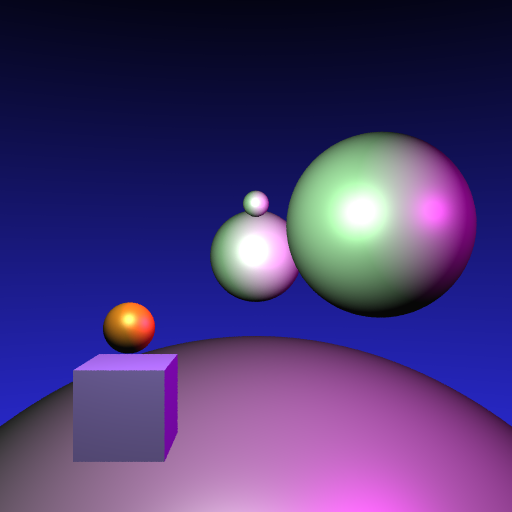
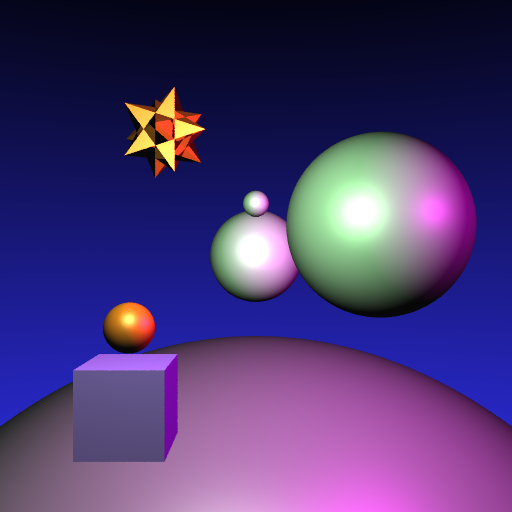
A4: mesh successfully rendered, need to do special bounding volume mode

Changed region(s): [[0.25, 0.1562, 0.4062, 0.3438]]

diff --git a/A4/Mesh.cpp b/A4/Mesh.cpp
@@ -8,11 +8,55 @@
 // #include "cs488-framework/ObjFileDecoder.hpp"
 #include "Mesh.hpp"
 
-bool Triangle::hit(const Ray &ray, float tmin, float tmax, HitRecord &record) const {
-	return false;
-}
+bool Mesh::hit(const Ray &ray, float t_min, float t_max, HitRecord &record) const {
+	if (!m_boundingCuboid.hit(ray, t_min, t_max, record)) return false;
 
-bool Mesh::hit(const Ray &ray, float tmin, float tmax, HitRecord &record) const {
+	// TODO: if the option to render the bounding box is on, then do it here
+
+	// If the ray hits the bounding volume, proceed to checking each individual triangle
+	for (const Triangle &triangle: m_faces) {
+		// Cramer's rule
+		glm::vec3 a = m_vertices[triangle.v1];
+		glm::vec3 b = m_vertices[triangle.v2];
+		glm::vec3 c = m_vertices[triangle.v3];
+
+		glm::vec3 col1 = glm::vec3(a - b);
+		glm::vec3 col2 = glm::vec3(a - c);
+		glm::vec3 col3 = ray.getDirection();
+		glm::vec3 colRhs = glm::vec3(a - ray.getOrigin());
+
+		glm::mat3x3 A = glm::mat3(col1, col2, col3);
+
+		// glm::mat3 A = glm::transpose(glm::mat3(
+		// 	a.x-b.x, a.x-c.x, ray.getDirection().x,
+		// 	a.y-b.y, a.y-c.y, ray.getDirection().y,
+		// 	a.z-b.z, a.z-c.z, ray.getDirection().z
+		// ));
+
+		// std::cout << glm::to_string(A) << std::endl;
+
+		// std::cout << glm::to_string(glm::mat3(col1, col2, col3)) << std::endl;
+
+		auto detOfA =  glm::determinant(A);
+
+		auto t = glm::determinant(glm::mat3(col1, col2, colRhs)) / detOfA;
+		if (t < t_min || t > t_max) continue; // continue is needed here instead of returning false
+
+		auto gamma = glm::determinant(glm::mat3(col1, colRhs, col3)) / detOfA;
+		if (gamma < 0 || gamma > 1) continue;
+
+		auto beta = glm::determinant(glm::mat3(colRhs, col2, col3)) / detOfA;
+		if (beta < 0 || beta > 1 - gamma) continue;
+
+		// Hit case
+		record.t = t;
+		record.p = ray.pointAtParameter(t);
+		record.normal = glm::cross(col1, col2);
+		return true;
+	}
+
+	// It is possible that the ray intersects the bounding box but still doesn't hit
+	// any triangle. Or is it?
 	return false;
 }
 

diff --git a/A4/Mesh.hpp b/A4/Mesh.hpp
@@ -27,14 +27,14 @@ struct Triangle
 		, v3( pv3 )
 	{}
 
-	bool hit(const Ray &ray, float tmin, float tmax, HitRecord &record) const;
+	bool hit(const Ray &ray, float t_min, float t_max, HitRecord &record) const;
 };
 
 // A polygonal mesh.
 class Mesh : public Primitive {
 public:
   Mesh( const std::string& fname );
-  bool hit(const Ray &ray, float tmin, float tmax, HitRecord &record) const;  
+  bool hit(const Ray &ray, float t_min, float t_max, HitRecord &record) const;  
 private:
 	std::vector<glm::vec3> m_vertices;
 	std::vector<Triangle> m_faces;
